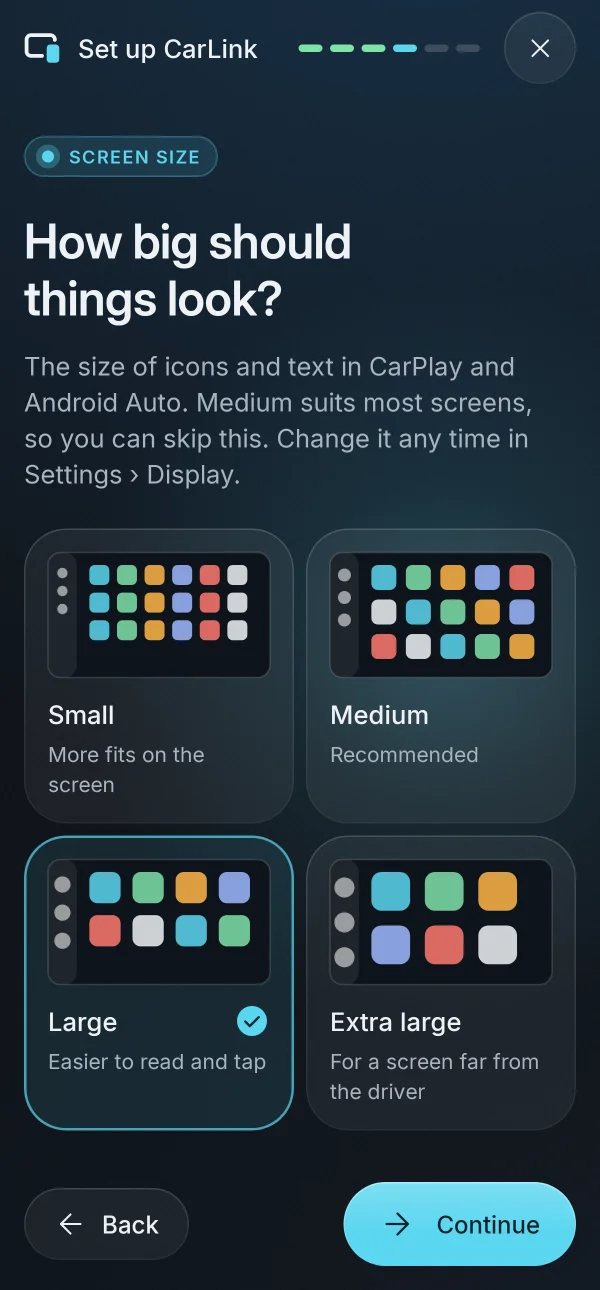
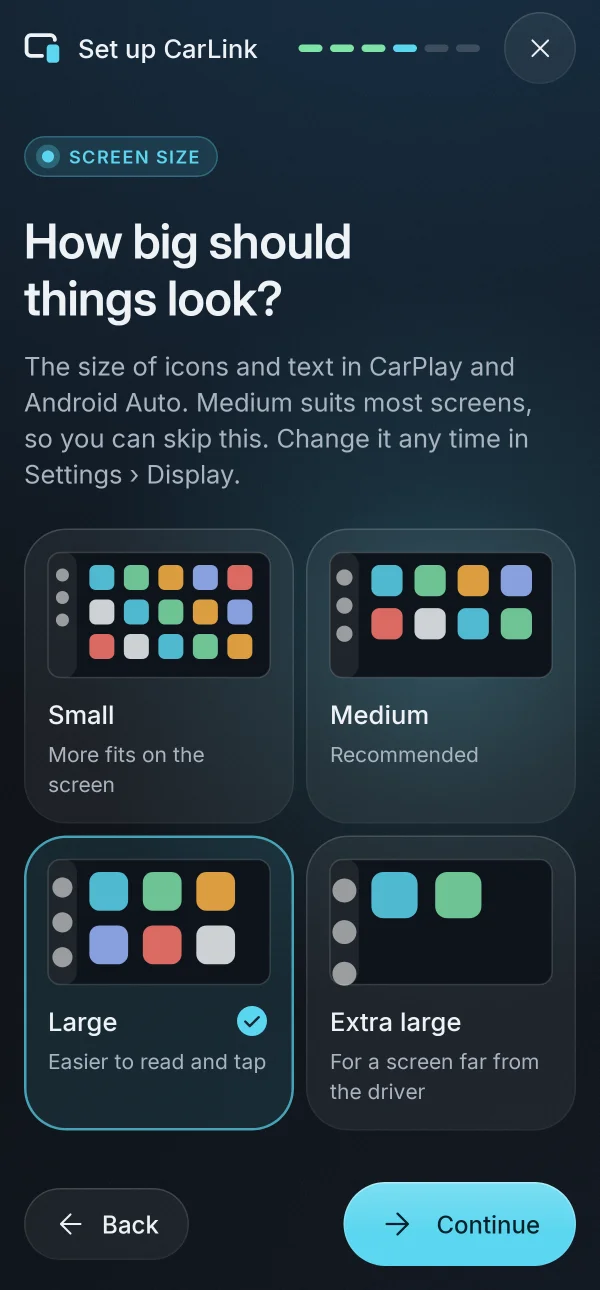
Bigger interface sizes; keep Android Auto's zoom above its minimum layout
CarPlay sizes move up two steps (Small 220 mm to Extra large 120 mm) and
Android Auto one step (Small 100 % to Extra large 200 %): the old smallest
sizes were too small to use, and on a turning screen Android Auto's
smallest size is also its sharpest.

On a phone or tablet Android Auto shows larger sizes by zooming into a
smaller region. Below 748x450 dp at the session's density its map took
taps but no drags (portrait on the tablet, 2026-11-18). The region is now
capped there, and the in-car panel dims the sizes that would not grow,
saying where Android Auto stops when held upright.

diff --git a/carlink-core/src/main/java/com/carlink/core/connection/aa/AaSessionSettings.kt b/carlink-core/src/main/java/com/carlink/core/connection/aa/AaSessionSettings.kt
@@ -198,10 +198,11 @@ object AaSessionSettings {
 
     /** Interface size as a percentage of the Automatic density (Custom: Advanced owns the DPI). */
     fun sizePercent(size: InterfaceSize): Int = when (size) {
-        InterfaceSize.SMALL -> 80
-        InterfaceSize.MEDIUM, InterfaceSize.CUSTOM -> 100
-        InterfaceSize.LARGE -> 135
-        InterfaceSize.EXTRA_LARGE -> 165 // CarPlay's 180 mm against Medium's 300; the 748x450 dp floor still caps it
+        // One step up since 2026-11-18 (Small is the old Medium), matching CarPlay's widths.
+        InterfaceSize.SMALL, InterfaceSize.CUSTOM -> 100
+        InterfaceSize.MEDIUM -> 135
+        InterfaceSize.LARGE -> 165
+        InterfaceSize.EXTRA_LARGE -> 200 // the 748x450 dp floor still caps it on a head unit
     }
 
     /**
@@ -213,7 +214,7 @@ object AaSessionSettings {
      * A [handheld] screen (phone, tablet) starts from a head unit's 160 dpi instead of its own: at a
      * phone's 300+ dpi Android Auto drew a phone-sized layout, while CarPlay on the same screen is laid
      * out for a car-sized display (2026-11-10, Galaxy S25 as the screen). [sizePercent] is the
-     * driver's interface size (Small 80, Large 135; 85/120 were too close to tell apart); the 748x450 dp floor still caps it.
+     * driver's interface size (Small 100 to Extra large 200; steps under 15 % were too close to tell apart); the 748x450 dp floor still caps it.
      */
     fun automaticDensityDpi(deviceDpi: Int, visibleWidthPx: Int, visibleHeightPx: Int, handheld: Boolean = false,
                             sizePercent: Int = 100): Int {
@@ -247,6 +248,23 @@ object AaSessionSettings {
     /** DiAuto preferences read by CarLink's hooks in ":aa" (AaEngineHooks): microphone gain in dB, resume music. */
     const val MIC_GAIN_KEY = "carlink-mic-gain-db"
     const val RESUME_MUSIC_KEY = "carlink-resume-music"
+
+    /**
+     * The largest interface size (percent of Small) Android Auto can show on a turning screen of
+     * [widthPx] x [heightPx] held as it is now: sizes zoom into a smaller region, which DiAuto keeps at
+     * 748x450 dp or more (HeadUnitScreenConfig, "size capped"). Upright on a tablet that is about 130 %.
+     */
+    fun turningMaxPercent(deviceDpi: Int, widthPx: Int, heightPx: Int): Int {
+        if (widthPx <= 0 || heightPx <= 0) return Int.MAX_VALUE
+        val dpi = automaticDensityDpi(deviceDpi, widthPx, heightPx, handheld = true, sizePercent = 100).coerceAtLeast(1)
+        return (100f * minOf(widthPx * 160f / (dpi * MIN_WIDTH_DP), heightPx * 160f / (dpi * MIN_HEIGHT_DP))).toInt()
+    }
+
+    /** The sizes that show larger than the one before them when Android Auto allows at most [maxPercent]. */
+    fun sizesThatGrow(maxPercent: Int): List<InterfaceSize> {
+        val steps = listOf(InterfaceSize.SMALL, InterfaceSize.MEDIUM, InterfaceSize.LARGE, InterfaceSize.EXTRA_LARGE)
+        return steps.filterIndexed { i, _ -> i == 0 || sizePercent(steps[i - 1]) < maxPercent }
+    }
 
     /** DiAuto preference with [sizePercent], read by the Automatic density hook in ":aa". */
     const val SIZE_PERCENT_KEY = "carlink-interface-percent"

diff --git a/app/src/main/java/com/carlink/app/ui/switcher/SwitcherPanel.kt b/app/src/main/java/com/carlink/app/ui/switcher/SwitcherPanel.kt
@@ -107,6 +107,8 @@ data class SwitcherUi(
     val method: ConnectionMethod = ConnectionMethod.AUTOMATIC,
     /** Interface size for both engines; changing it reconnects the session. */
     val interfaceSize: InterfaceSize = InterfaceSize.MEDIUM,
+    /** Sizes that would show larger right now; null = all (Android Auto upright on a tablet stops at Medium). */
+    val sizesThatGrow: List<InterfaceSize>? = null,
     /** Day/night for both engines; applies from the next connection. */
     val dayNight: DayNight = DayNight.AUTOMATIC,
     /** The screen dimmer's step (0 = off), an index into switcher/ScreenDimmer.ALPHAS. */
@@ -302,8 +304,9 @@ private fun MainPage(ui: SwitcherUi, actions: SwitcherActions) {
     Row(Modifier.alpha(if (switching) 0.5f else 1f), horizontalArrangement = Arrangement.spacedBy(dimens.targetGap)) {
         listOf(InterfaceSize.SMALL, InterfaceSize.MEDIUM, InterfaceSize.LARGE, InterfaceSize.EXTRA_LARGE).forEach { size ->
             val selected = size == ui.interfaceSize
-            SelectableGlass(selected, { if (!switching && !selected) actions.setInterfaceSize(size) }, Modifier.weight(1f),
-                role = Role.RadioButton) {
+            val grows = ui.sizesThatGrow?.contains(size) ?: true
+            SelectableGlass(selected, { if (!switching && !selected && grows) actions.setInterfaceSize(size) },
+                Modifier.weight(1f).alpha(if (grows || selected) 1f else 0.4f), role = Role.RadioButton) {
                 Box(Modifier.fillMaxWidth().defaultMinSize(minHeight = dimens.minTouch).padding(vertical = 12.dp),
                     contentAlignment = Alignment.Center) {
                     Text(com.carlink.app.ui.settings.interfaceSizeLabel(size), style = MaterialTheme.typography.titleSmall,
@@ -313,7 +316,10 @@ private fun MainPage(ui: SwitcherUi, actions: SwitcherActions) {
         }
     }
     Spacer(Modifier.height(6.dp))
-    Text(stringResource(R.string.carlink_switcher_size_reconnects), style = MaterialTheme.typography.bodySmall,
+    val largest = ui.sizesThatGrow?.lastOrNull()
+    Text(if (largest != null && ui.sizesThatGrow.size < 4)
+            stringResource(R.string.carlink_switcher_size_upright, com.carlink.app.ui.settings.interfaceSizeLabel(largest))
+        else stringResource(R.string.carlink_switcher_size_reconnects), style = MaterialTheme.typography.bodySmall,
         color = scheme.onSurfaceVariant)
 
     Spacer(Modifier.height(dimens.gutter))

diff --git a/vendor/diauto/app/src/main/java/com/andrerinas/openheadunit/utils/HeadUnitScreenConfig.kt b/vendor/diauto/app/src/main/java/com/andrerinas/openheadunit/utils/HeadUnitScreenConfig.kt
@@ -296,7 +296,21 @@ object HeadUnitScreenConfig {
             val longSide = maxOf(screenWidthPx, screenHeightPx).toFloat()
             turnScale = minOf(getNegotiatedWidth(), getNegotiatedHeight()) / longSide
             turnSizeFactorUsed = com.andrerinas.openheadunit.HostIntegration.turnSizeFactor
-            val sized = turnScale / turnSizeFactorUsed.coerceAtLeast(1f) // CarLink
+            var sized = turnScale / turnSizeFactorUsed.coerceAtLeast(1f) // CarLink
+            // CarLink: a larger interface size zooms into a smaller region, but never below Android Auto's
+            // 748x450 dp minimum at this session's density: under it (729 dp wide in portrait, 2026-11-18)
+            // the map took taps but no drags. Larger sizes stop at the largest one that still works.
+            val sessionDpi = if (this::currentSettings.isInitialized && currentSettings.dpiPixelDensity != 0) {
+                currentSettings.dpiPixelDensity.toFloat()
+            } else {
+                (com.andrerinas.openheadunit.HostIntegration.automaticDensityDpi?.invoke(densityDpi, screenWidthPx, screenHeightPx)
+                    ?: densityDpi) * turnScale
+            }
+            val floorSized = maxOf(748f * sessionDpi / 160f / screenWidthPx, 450f * sessionDpi / 160f / screenHeightPx)
+            if (sized < floorSized) {
+                AppLog.i("[UI_DEBUG] CarScreen turning: size capped at Android Auto's 748x450 dp minimum ($sized -> ${minOf(floorSized, turnScale)})")
+                sized = minOf(floorSized, turnScale)
+            }
             turnRegionW = ((screenWidthPx * sized).roundToInt() and 1.inv()).coerceIn(2, getNegotiatedWidth())
             turnRegionH = ((screenHeightPx * sized).roundToInt() and 1.inv()).coerceIn(2, getNegotiatedHeight())
             isSmallScreen = true

diff --git a/app/src/main/java/com/carlink/app/ui/settings/SettingsSheets.kt b/app/src/main/java/com/carlink/app/ui/settings/SettingsSheets.kt
@@ -151,13 +151,13 @@ internal fun SettingsSheetHost(key: String?, ui: SettingsUi, actions: SettingsAc
             stringResource(R.string.carlink_settings_interface_size), stringResource(R.string.carlink_settings_interface_size_detail), true,
             listOf(
                 Preset(InterfaceSize.SMALL, interfaceSizeLabel(InterfaceSize.SMALL), stringResource(R.string.carlink_settings_size_small_detail),
-                    preview = { ScalePreview(0.8f) }),
-                Preset(InterfaceSize.MEDIUM, interfaceSizeLabel(InterfaceSize.MEDIUM), stringResource(R.string.carlink_settings_size_medium_detail),
                     preview = { ScalePreview(1f) }),
-                Preset(InterfaceSize.LARGE, interfaceSizeLabel(InterfaceSize.LARGE), stringResource(R.string.carlink_settings_size_large_detail),
+                Preset(InterfaceSize.MEDIUM, interfaceSizeLabel(InterfaceSize.MEDIUM), stringResource(R.string.carlink_settings_size_medium_detail),
                     preview = { ScalePreview(1.25f) }),
+                Preset(InterfaceSize.LARGE, interfaceSizeLabel(InterfaceSize.LARGE), stringResource(R.string.carlink_settings_size_large_detail),
+                    preview = { ScalePreview(1.55f) }),
                 Preset(InterfaceSize.EXTRA_LARGE, interfaceSizeLabel(InterfaceSize.EXTRA_LARGE),
-                    stringResource(R.string.carlink_settings_size_extra_large_detail), preview = { ScalePreview(1.55f) }),
+                    stringResource(R.string.carlink_settings_size_extra_large_detail), preview = { ScalePreview(1.85f) }),
             ) + customPreset(u.interfaceSize == InterfaceSize.CUSTOM, InterfaceSize.CUSTOM),
             u.interfaceSize, onSelect = { s -> select { it.copy(interfaceSize = s) } }, onDismiss = onDismiss,
         )

diff --git a/carlink-core/src/test/java/com/carlink/core/connection/aa/AaSessionSettingsTest.kt b/carlink-core/src/test/java/com/carlink/core/connection/aa/AaSessionSettingsTest.kt
@@ -113,7 +113,7 @@ class AaSessionSettingsTest {
         assertEquals(2, v["resolutionId"])
         assertEquals(30, v["fps-limit"])
         assertEquals(0, v["dpi-pixel-density"])
-        for ((size, percent) in listOf(InterfaceSize.SMALL to 80, InterfaceSize.MEDIUM to 100, InterfaceSize.LARGE to 135, InterfaceSize.EXTRA_LARGE to 165)) {
+        for ((size, percent) in listOf(InterfaceSize.SMALL to 100, InterfaceSize.MEDIUM to 135, InterfaceSize.LARGE to 165, InterfaceSize.EXTRA_LARGE to 200)) {
             val sized = values(settings = base.copy(interfaceSize = size)).values
             assertEquals(0, sized["dpi-pixel-density"])
             assertEquals(percent, sized[AaSessionSettings.SIZE_PERCENT_KEY])
@@ -179,5 +179,14 @@ class AaSessionSettingsTest {
         assertEquals("", v["hotspot-ssid"])
         // USB sessions keep native Android Auto.
         assertEquals(3, values(transport = Transport.USB, path = null).values["wifi-connection-mode"])
+    }
+
+    /** Upright on the 2560x1600 tablet (320 dpi), Android Auto stops near Medium; sideways every size grows (2026-11-18). */
+    @Test fun aTurningScreenUprightStopsGrowingAtMedium() {
+        val upright = AaSessionSettings.turningMaxPercent(320, 1600, 2560)
+        assertTrue("$upright", upright in 120..134)
+        assertEquals(listOf(InterfaceSize.SMALL, InterfaceSize.MEDIUM), AaSessionSettings.sizesThatGrow(upright))
+        val sideways = AaSessionSettings.turningMaxPercent(320, 2560, 1600)
+        assertEquals(InterfaceSize.entries.filter { it != InterfaceSize.CUSTOM }, AaSessionSettings.sizesThatGrow(sideways))
     }
 }

diff --git a/carlink-core/src/test/java/com/carlink/core/connection/CarPlaySettingsTest.kt b/carlink-core/src/test/java/com/carlink/core/connection/CarPlaySettingsTest.kt
@@ -52,7 +52,7 @@ class CarPlaySettingsTest {
 
     @Test fun pictureSizeAndNightKeepTheVerifiedMapping() {
         val best = map(UnifiedSettings(picture = Picture.BEST, interfaceSize = InterfaceSize.SMALL, dayNight = DayNight.SCHEDULE))
-        assertEquals(100, best.displayScalePercent); assertEquals(60, best.fps); assertEquals(350, best.widthPhysicalMm)
+        assertEquals(100, best.displayScalePercent); assertEquals(60, best.fps); assertEquals(220, best.widthPhysicalMm)
         assertEquals("schedule", best.nightModeKey)
         val custom = map(UnifiedSettings(picture = Picture.CUSTOM, interfaceSize = InterfaceSize.CUSTOM))
         assertNull(custom.displayScalePercent); assertNull(custom.fps); assertNull(custom.widthPhysicalMm)
@@ -62,7 +62,7 @@ class CarPlaySettingsTest {
 
     /** Every preset width is one the Advanced list offers, so choosing Advanced never shows an unknown value (#83). */
     @Test fun presetWidthsAreOnTheAdvancedList() {
-        assertEquals(180, map(UnifiedSettings(interfaceSize = InterfaceSize.EXTRA_LARGE)).widthPhysicalMm)
+        assertEquals(120, map(UnifiedSettings(interfaceSize = InterfaceSize.EXTRA_LARGE)).widthPhysicalMm)
         val offered = (com.carlink.core.settings.AdvancedSettings.all.first { it.id == "cp_width" }.control
             as com.carlink.core.settings.Control.Choice).options.map { it.value.toInt() }
         InterfaceSize.entries.mapNotNull(CarPlaySettingsPolicy::widthMm).forEach { assertTrue("$it mm", it in offered) }

diff --git a/app/src/main/java/com/carlink/app/switcher/SwitcherController.kt b/app/src/main/java/com/carlink/app/switcher/SwitcherController.kt
@@ -262,6 +262,14 @@ object SwitcherController {
 
     // ---- Panel --------------------------------------------------------------------------------
 
+    /** Android Auto on a turning screen (phone, tablet) held upright cannot grow past about Medium. */
+    private fun sizesThatGrow(engine: com.carlink.core.core.Engine): List<InterfaceSize>? {
+        if (engine != com.carlink.core.core.Engine.ANDROID_AUTO || !com.carlink.core.detect.HeadUnitDetector.handheld(app)) return null
+        val metrics = app.resources.displayMetrics
+        val max = com.carlink.core.connection.aa.AaSessionSettings.turningMaxPercent(metrics.densityDpi, metrics.widthPixels, metrics.heightPixels)
+        return com.carlink.core.connection.aa.AaSessionSettings.sizesThatGrow(max)
+    }
+
     private fun openPanel() {
         if (panel != null) return
         val active = session as? SessionState.Active ?: return
@@ -277,6 +285,7 @@ object SwitcherController {
             usbKinds = com.carlink.app.ui.premium.usbPhoneKinds(app),
             method = UnifiedSettingsStore(app).load().connectionMethod,
             interfaceSize = UnifiedSettingsStore(app).load().interfaceSize,
+            sizesThatGrow = sizesThatGrow(active.request.engine),
             dayNight = UnifiedSettingsStore(app).load().dayNight, dimmer = ScreenDimmer.level,
             edge = bubble?.let { if (it.params.x + geometry.bubble / 2 < geometry.screenWidth / 2) Edge.LEFT else Edge.RIGHT }
                 ?: Edge.RIGHT,

diff --git a/carlink-core/src/main/java/com/carlink/core/connection/CarPlaySettings.kt b/carlink-core/src/main/java/com/carlink/core/connection/CarPlaySettings.kt
@@ -99,8 +99,6 @@ enum class CarLinkAppearance { FOLLOW_SYSTEM, DARK, LIGHT }
 
 /** Pure translation from CarLink's settings to DiPlay's, so every rule is unit tested. */
 object CarPlaySettingsPolicy {
-    /** Interface size Medium: the screen's long side told to the iPhone, in mm (Android Auto on a phone or tablet follows it). */
-    const val MEDIUM_WIDTH_MM = 300
 
     /**
      * CarLink's theme at the time of a write; the app sets it at start-up. The default, dark,
@@ -119,10 +117,12 @@ object CarPlaySettingsPolicy {
 
     /** The screen width told to the iPhone for [size]; null leaves DiPlay's own (Custom). */
     fun widthMm(size: InterfaceSize): Int? = when (size) {
-        InterfaceSize.SMALL -> 350
-        InterfaceSize.MEDIUM -> MEDIUM_WIDTH_MM
-        InterfaceSize.LARGE -> 220 // 250 looked too close to Medium on a tablet (2026-11-12)
-        InterfaceSize.EXTRA_LARGE -> 180 // #83: Large was still small on a 10" stereo
+        // Shifted up two steps on 2026-11-18 (the driver's call on the tablet): 350 and 300 mm drew
+        // CarPlay too small to use, so Small starts at 220 mm. Android Auto shifted one step (AaSessionSettings).
+        InterfaceSize.SMALL -> 220
+        InterfaceSize.MEDIUM -> 180 // #83: 220 was still small on a 10" stereo
+        InterfaceSize.LARGE -> 150
+        InterfaceSize.EXTRA_LARGE -> 120
         InterfaceSize.CUSTOM -> null
     }
 

diff --git a/app/src/main/java/com/carlink/app/ui/setup/SetupScreen.kt b/app/src/main/java/com/carlink/app/ui/setup/SetupScreen.kt
@@ -709,10 +709,10 @@ private fun StepPanel(ui: SetupUi, actions: SetupActions) {
 @Composable
 private fun SizePicker(selected: InterfaceSize, onSelect: (InterfaceSize) -> Unit) {
     val sizes = listOf(
-        Triple(InterfaceSize.SMALL, 0.8f, R.string.carlink_settings_size_small_detail),
-        Triple(InterfaceSize.MEDIUM, 1f, R.string.carlink_settings_size_medium_detail),
-        Triple(InterfaceSize.LARGE, 1.25f, R.string.carlink_settings_size_large_detail),
-        Triple(InterfaceSize.EXTRA_LARGE, 1.55f, R.string.carlink_settings_size_extra_large_detail),
+        Triple(InterfaceSize.SMALL, 1f, R.string.carlink_settings_size_small_detail),
+        Triple(InterfaceSize.MEDIUM, 1.25f, R.string.carlink_settings_size_medium_detail),
+        Triple(InterfaceSize.LARGE, 1.55f, R.string.carlink_settings_size_large_detail),
+        Triple(InterfaceSize.EXTRA_LARGE, 1.85f, R.string.carlink_settings_size_extra_large_detail),
     )
     PresetGrid(sizes.map { (size, scale, detail) ->
         Preset(size, interfaceSizeLabel(size), stringResource(detail), preview = { ScalePreview(scale) })

diff --git a/carlink-core/src/main/java/com/carlink/core/settings/AdvancedSettings.kt b/carlink-core/src/main/java/com/carlink/core/settings/AdvancedSettings.kt
@@ -110,7 +110,7 @@ object AdvancedSettings {
                 AirPlayPersistence::loadFps, AirPlayPersistence::saveFps), Overrides.PICTURE),
         AdvancedSetting("cp_width", Engine.CARPLAY, SettingsCategory.DISPLAY, Tier.ADVANCED,
             "Screen width reported to iPhone", "A wider screen makes CarPlay's icons and text smaller.",
-            Applies.NEXT_CONNECTION, carPlayIntChoice(options(150 to "150 mm (largest)", 180 to "180 mm", 200 to "200 mm", 220 to "220 mm", 250 to "250 mm", 300 to "300 mm", 350 to "350 mm", 400 to "400 mm (smallest)"),
+            Applies.NEXT_CONNECTION, carPlayIntChoice(options(120 to "120 mm (largest)", 150 to "150 mm", 180 to "180 mm", 200 to "200 mm", 220 to "220 mm", 250 to "250 mm", 300 to "300 mm", 350 to "350 mm", 400 to "400 mm (smallest)"),
                 AirPlayPersistence::loadWidthPhysicalMm, AirPlayPersistence::saveWidthPhysicalMm), Overrides.INTERFACE_SIZE),
         AdvancedSetting("cp_dock", Engine.CARPLAY, SettingsCategory.DISPLAY, Tier.ADVANCED,
             "Dock position", "Where CarPlay shows its row of apps.",

diff --git a/carlink-core/src/main/java/com/carlink/core/connection/aa/AaEngineHooks.kt b/carlink-core/src/main/java/com/carlink/core/connection/aa/AaEngineHooks.kt
@@ -120,8 +120,8 @@ object AaEngineHooks {
         com.carlink.core.connection.PicturePolicy.turningHighRes(com.carlink.core.connection.DeviceCapabilities.read(app))
     }.getOrDefault(false).also { highResCapable = it }
 
-    /** Small: the size a turning screen connects at, so every interface size is reachable live. */
-    private const val LIVE_BASE_PERCENT = 80
+    /** Small: the size a turning screen connects at, so every interface size is reachable live (and the sharpest). */
+    private const val LIVE_BASE_PERCENT = 100
 
     /**
      * Interface size during a session. The phone takes the density only at connect, but on a turning

diff --git a/docs/VENDOR_CHANGES.md b/docs/VENDOR_CHANGES.md
@@ -125,6 +125,7 @@ After a pull, run `python3 scripts/resource_collisions.py` and the build and tes
 | DiAuto `HostIntegration.turnSizeFactor`, `relayoutTurningScreen`; `utils/HeadUnitScreenConfig.kt` (`turnSizeFactorUsed`: the turning region divided by the factor, and `init` recalculates when it changed); `aap/AapProjectionActivity.kt` (sets/clears `relayoutTurningScreen` in `onCreate`/`onDestroy`), all `// CarLink` | On a turning screen the interface size changes live: CarLink's `:aa` (`AaEngineHooks.setSize`) sets the factor (new size / the session's size, at least 1) and the screen re-sends its margins with a focus cycle, so Android Auto lays out a smaller area that is scaled up larger. CarLink's `:aa` connects a turning screen at Small (80 %) and sets the factor for the chosen size at each start (`AaEngineHooks.refreshScreen`), so every size change, smaller ones included, is live. | The size picker in the switcher bubble reconnected Android Auto for every change (4-13 s with a blank screen, tablet 2026-11-11); the live change takes about 60 ms. |
 | DiAuto `HostIntegration.turnSizeFactor`, `relayoutTurningScreen`; `utils/HeadUnitScreenConfig.kt` (`turnSizeFactorUsed`: the turning region divided by the factor, and `init` recalculates when it changed); `aap/AapProjectionActivity.kt` (sets/clears `relayoutTurningScreen` in `onCreate`/`onDestroy`), all `// CarLink` | On a turning screen the interface size changes live: CarLink's `:aa` (`AaEngineHooks.setSize`) sets the factor (new size / the session's size, at least 1) and the screen re-sends its margins with a focus cycle, so Android Auto lays out a smaller area that is scaled up larger. A size smaller than the session's reconnects. The factor goes back to 1 when a session ends. | The size picker in the switcher bubble reconnected Android Auto for every change (4-13 s with a blank screen, tablet 2026-11-11); the live change takes about 60 ms. |
 | `common/.../CarPlayViewAreas.kt` (`Slot.sizeFactor`, `sizeFactor`, `sessionWidthMm`, `sizeVariant`; `build(..., sizeWidthsMm, sessionWidthMm)`; `index` matches the size factor, `layoutArea` uses the factor-1 screen, `use` records it); `CarPlayHostIntegration.kt` (`liveSizeWidthsMm`, `setInterfaceSizeLive`, `HostSessions.Host.setInterfaceSizeLive`); `CarPlayHostActivity.kt` (passes the widths and `widthPhysicalMm` to both `CarPlayViewAreas.build` calls unless a custom safe area is saved; `applyInterfaceSize`), all `// CarLink`. Test: `CarLinkLiveSizeAreasTest` (new) | A session that declares view areas anyway (the turning square on a phone or tablet, a fixed dock, split screen, side panel) also declares each whole screen once per CarLink size width below its own, smaller by sessionMm / widthMm at the top-left corner. `setInterfaceSizeLive(mm)` sends `updateViewArea` to that area (or back to the session's own); DiPlay's existing `contentRect` scales it to fill the window, so CarPlay lays out fewer points and looks larger. Turns, dock moves and leaving split screen keep the chosen size. False (CarLink reconnects): a width above the session's, a plain canvas, CarPlay in split screen or beside the side panel, the menu open, no live host. | The size picker in the switcher bubble reconnected CarPlay for every change (about 5 s blank). Android Auto already changes live on a turning screen (row above). |
+| DiAuto `utils/HeadUnitScreenConfig.recalculate` turning branch: the zoomed region never goes below 748x450 dp at the session's density (`// CarLink`) | A larger interface size on a phone or tablet zooms into a smaller region; under Android Auto's minimum layout (729 dp wide in portrait on the tablet, 2026-11-18) the map took taps but no drags. Larger sizes stop at the largest one that still works. |
 | DiAuto `utils/HeadUnitScreenConfig.recalculate` turning branch: 2560x1440 where the panel's long side is 2560 px or more and HEVC high resolution is negotiable (`// CarLink`), still capped by `autoResolutionForPanel` | A turning screen asks for 1440p (HEVC) instead of 1080p on large panels, as DiAuto's own Automatic branch already does. | The region is upscaled to the screen: 2.4x at 1080p on a 2560x1600 tablet looked soft; at 1440p it is 1.8x, and the tablet decoded 47-50 fps against 29. |
 | DiAuto `HostIntegration.turningScreen`; `utils/HeadUnitScreenConfig.kt` (`turning()`, `turnRegionW/H`, `turnScale`; the turning branch in `recalculate`, and in `getWidthMargin`, `getHeightMargin`, `getScaleX`, `getScaleY`, `getDensityDpi`); `aap/AapProjectionActivity.kt` (`postOrientationCheck` → `postTurnMargins`, `turnMarginsCheck`), all `// CarLink` | On a phone or tablet with Automatic resolution, Android Auto gets one landscape stream (1920x1080, capped by the panel) and an area in it with the screen's shape at one scale for both orientations (k = the stream's short side / the screen's long side). A turn sends the new margins (`UpdateUiConfigRequest`) and re-crops the view; the #31 reconnect check is skipped. The density is the host's Automatic for the screen times k, so the layout keeps its size. | Turning a phone used as the screen reconnected Android Auto (about 13 s, sometimes a USB restart); CarPlay already turns live (2026-11-10, Galaxy S25 as the screen). Costs sharpness: about 1.44x upscaling on a 1560x720 screen. |
 | `shared/.../media/LostMusicFill.kt` (new, `// CarLink: ported` header) and `LostMusicFillTest`; `media/AndroidMediaSink.kt` (`AudioRenderer`: `AudioPacket.afterLoss`, `followsLoss`, `lostMusicFill.lossBefore`/`silenceBefore`, `writeSilence`, `lostFramesFilledTotal` in the decoder stats line) | Port of open upstream DiPlay **PR #1206** (head 1c1fa6dcf, not in 615b32ce0): for wireless music (AAC/Opus, not LPCM) an RTP sequence gap marks the next packet, and the decoded buffer after it is preceded by silence for the missing time (at most 500 ms). Packets DiPlay drops on purpose and decoders that do not pass timestamps through play as before. | Upstream #1205: without it the music closes up over each lost packet, runs ahead of the iPhone's clock and stops to refill (one head unit: 23 stops in 14 min). Drop this row when an upstream update brings #1206. |
